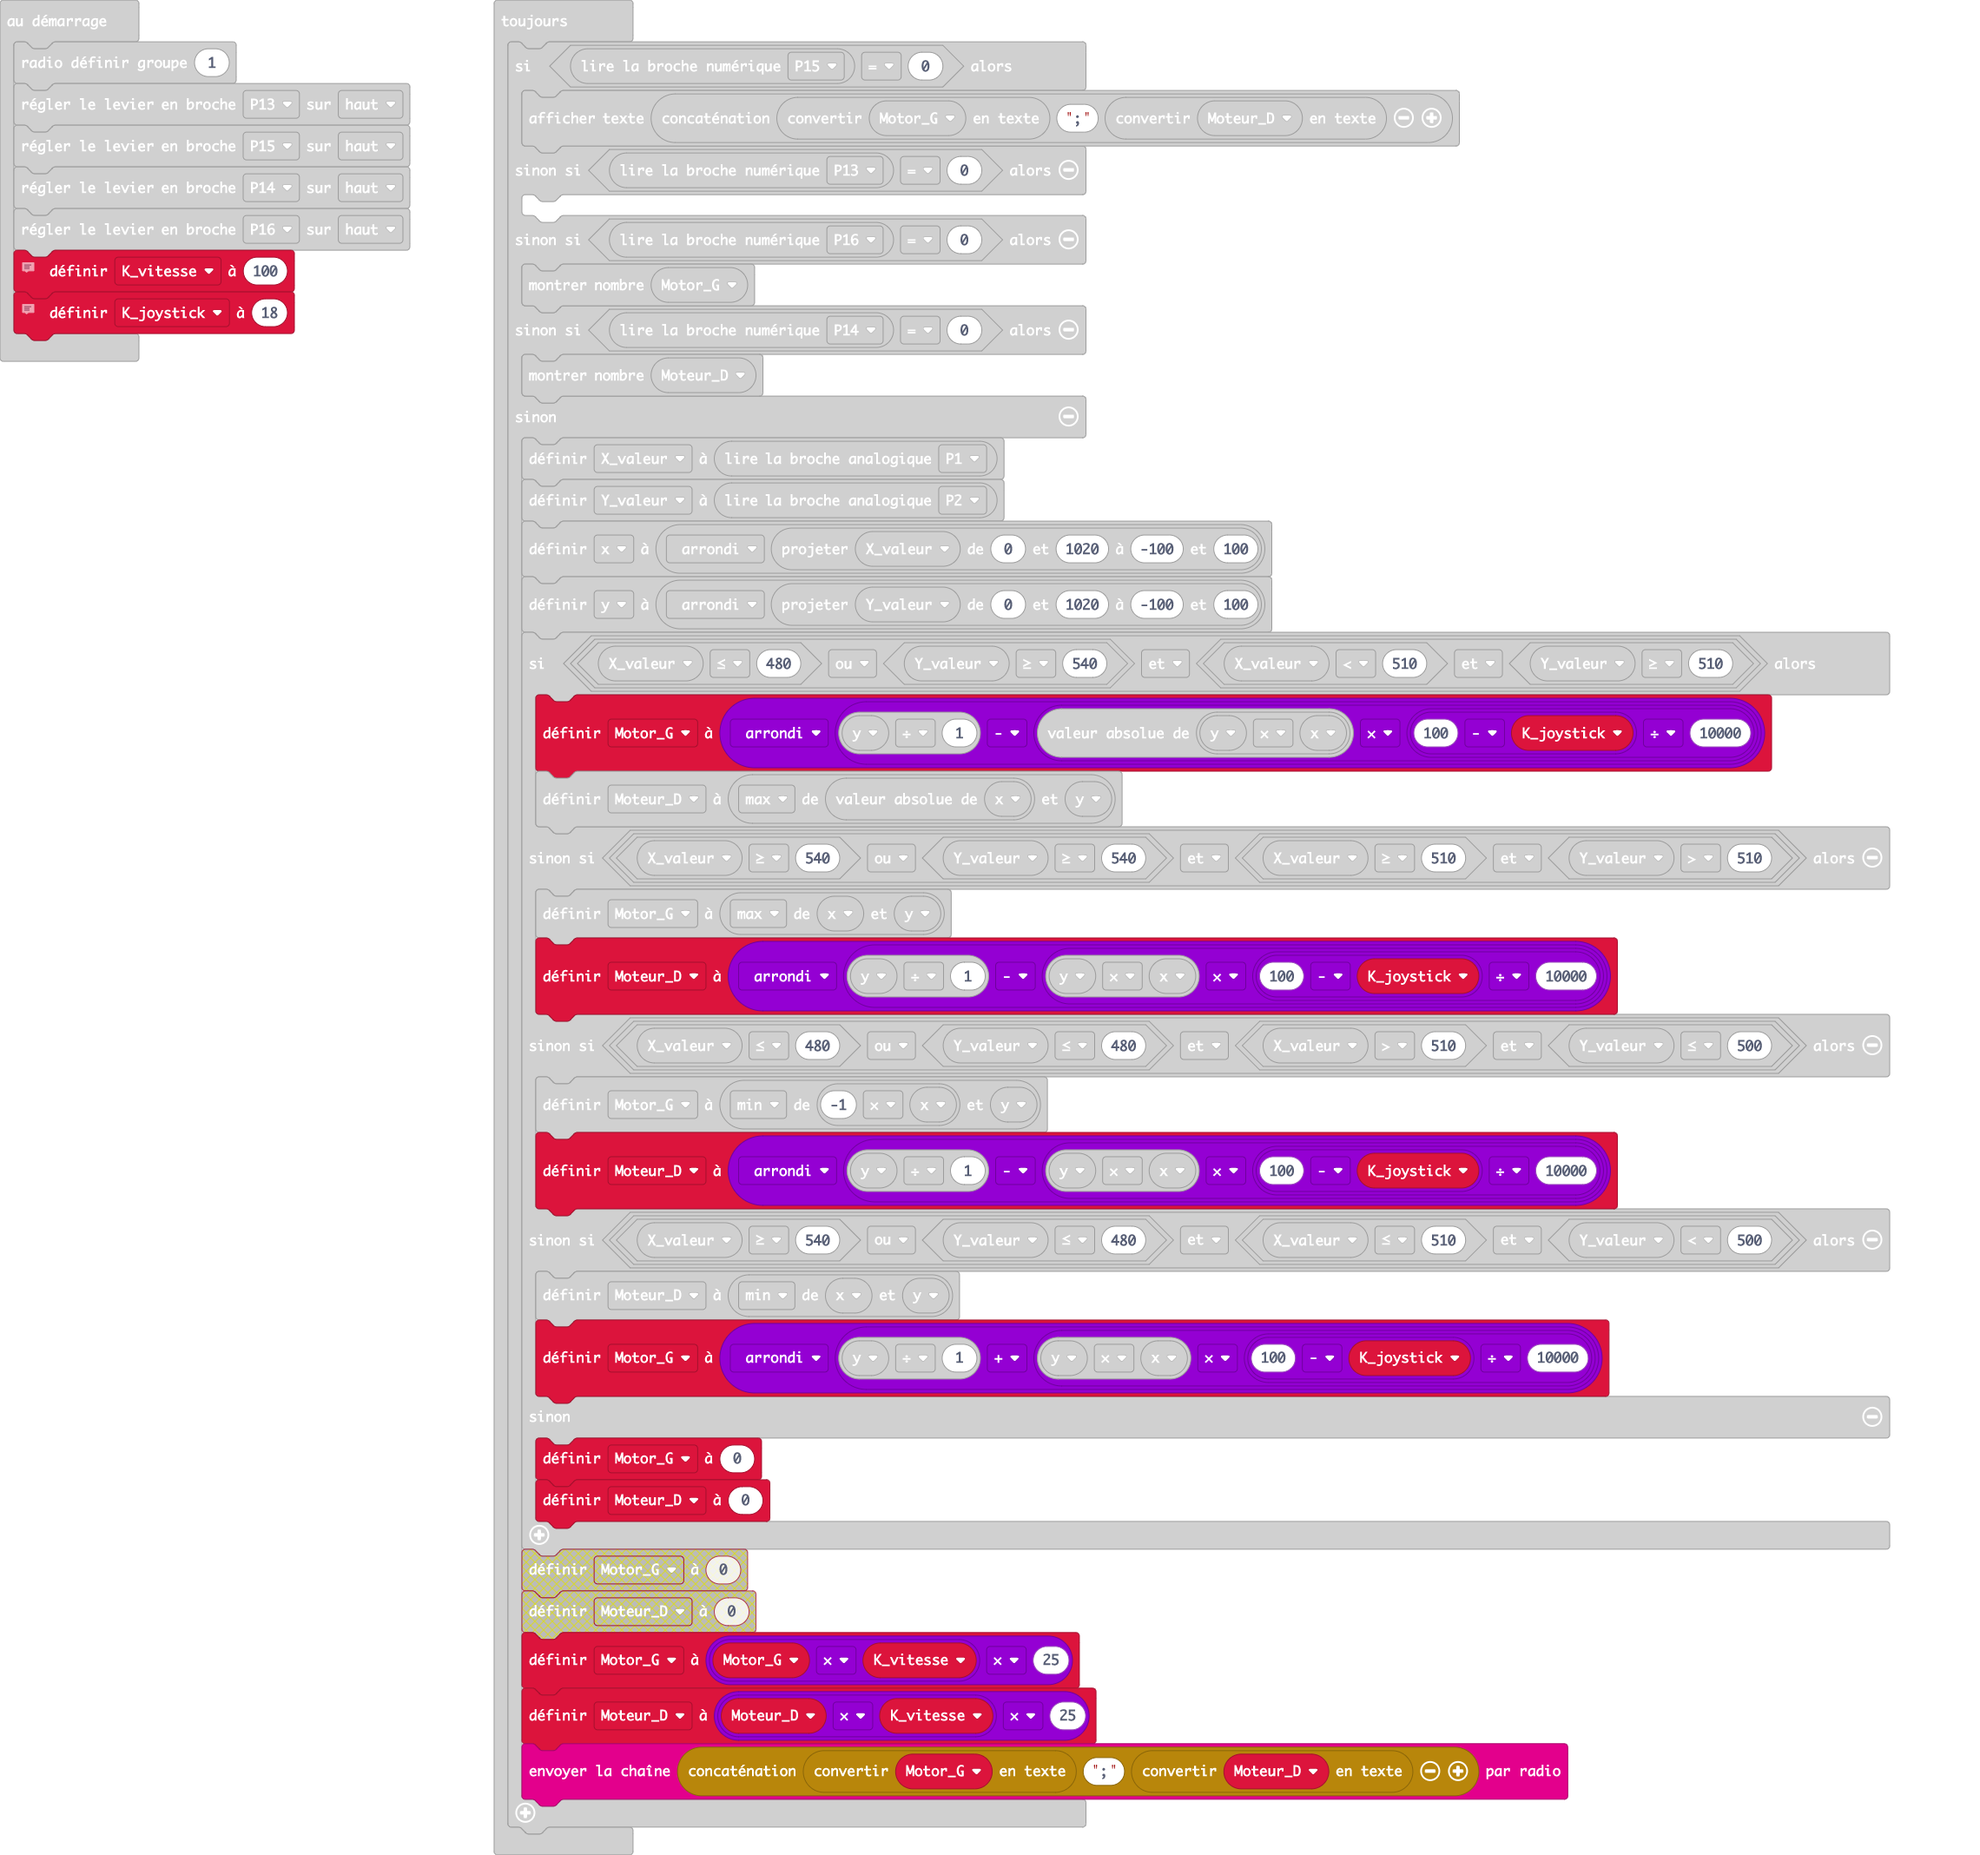
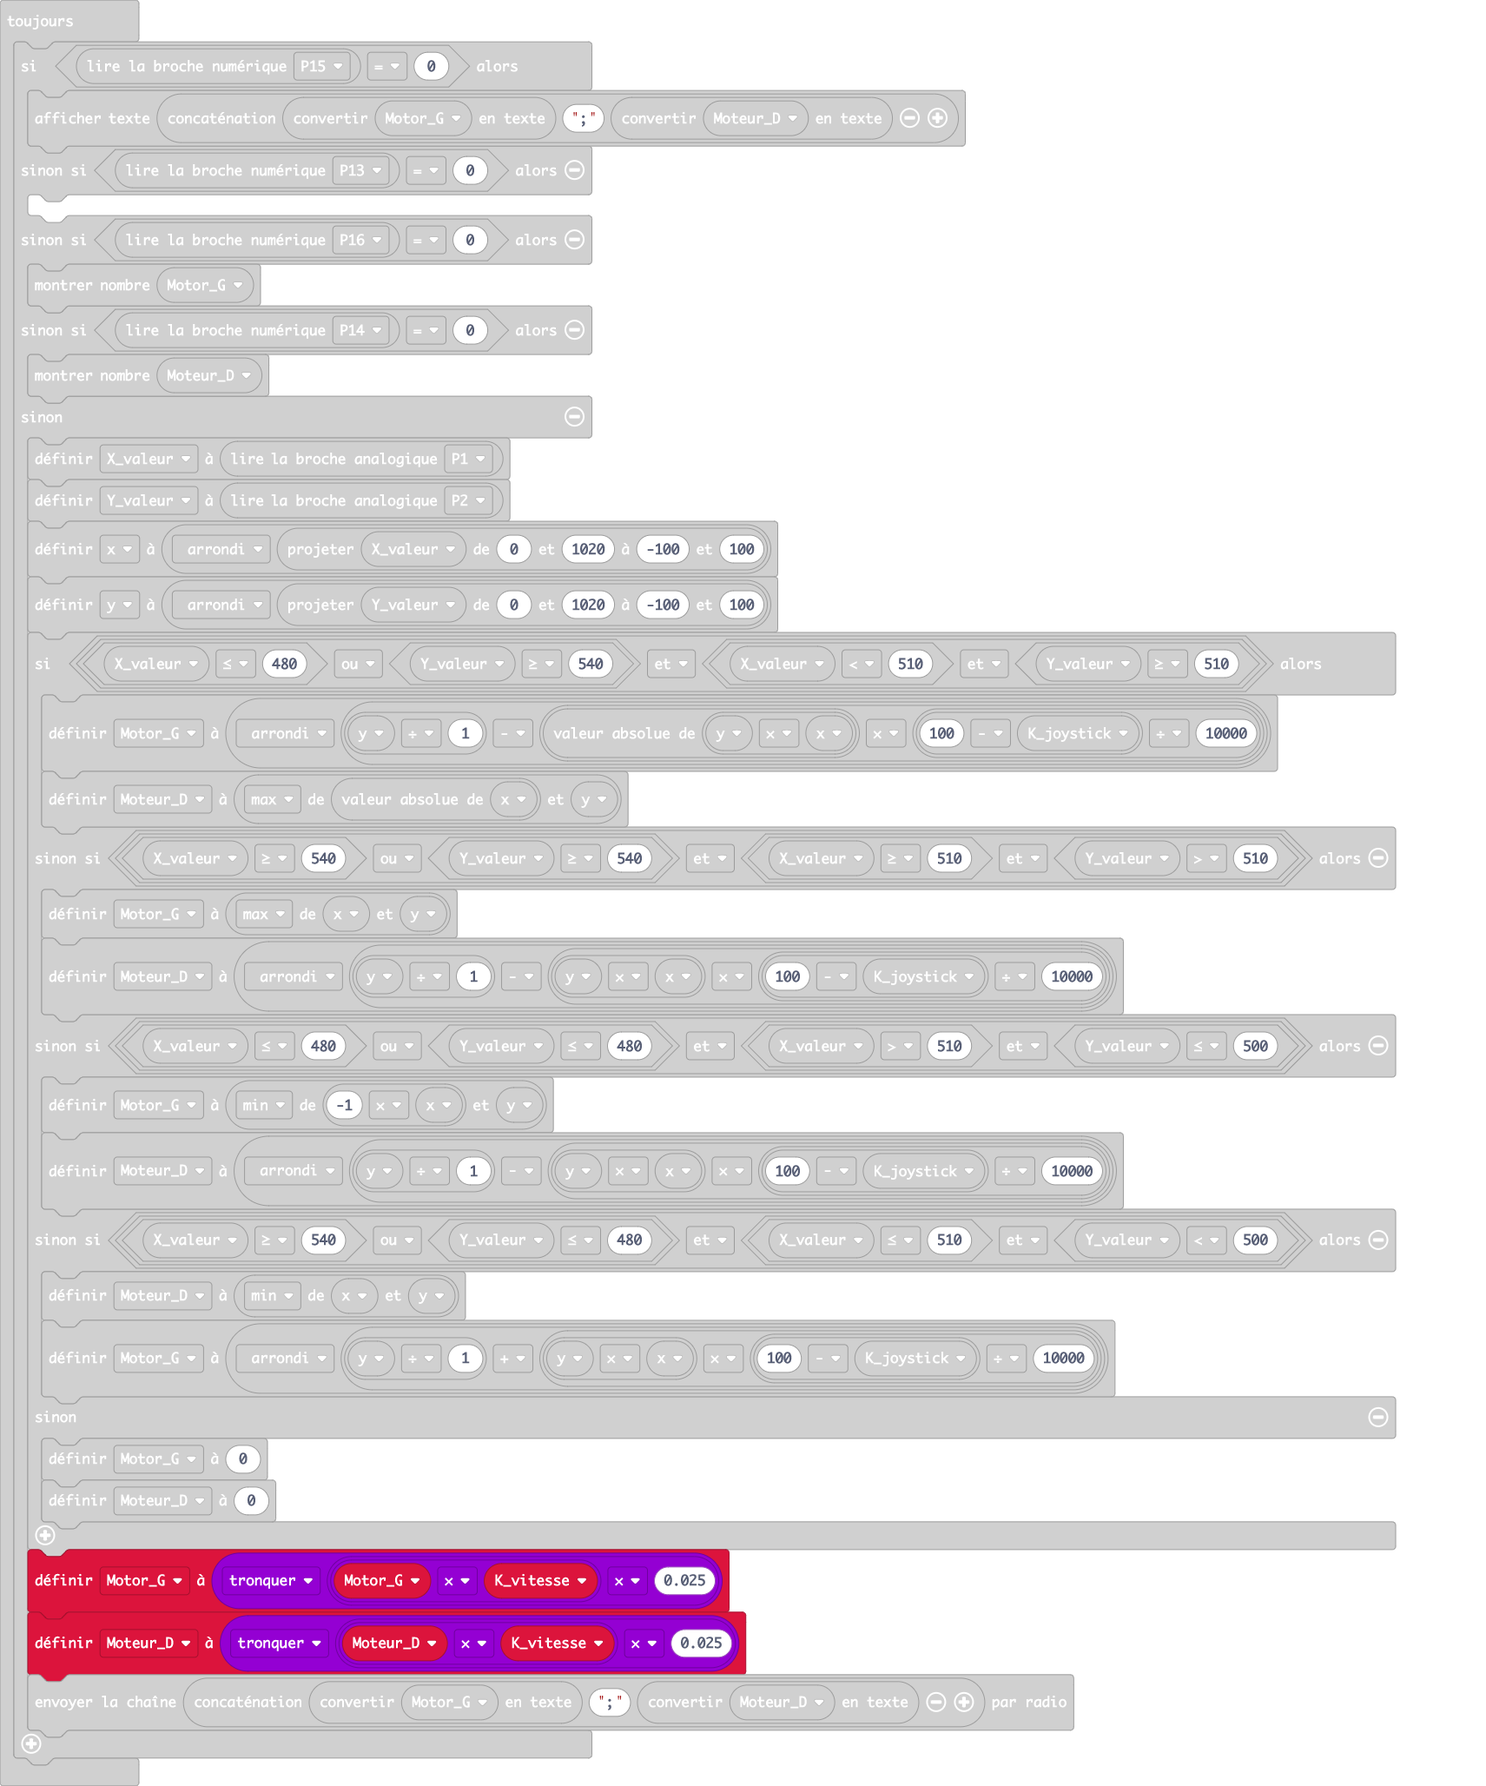
Mise à jour main.blocks, main.ts

diff --git a/main.ts b/main.ts
@@ -47,8 +47,8 @@ basic.forever(function () {
             Motor_G = 0
             Moteur_D = 0
         }
-        Motor_G = Motor_G * K_vitesse * 25
-        Moteur_D = Moteur_D * K_vitesse * 25
+        Motor_G = Math.trunc(Motor_G * K_vitesse * 0.025)
+        Moteur_D = Math.trunc(Moteur_D * K_vitesse * 0.025)
         radio.sendString("" + convertToText(Motor_G) + ";" + convertToText(Moteur_D))
     }
 })
